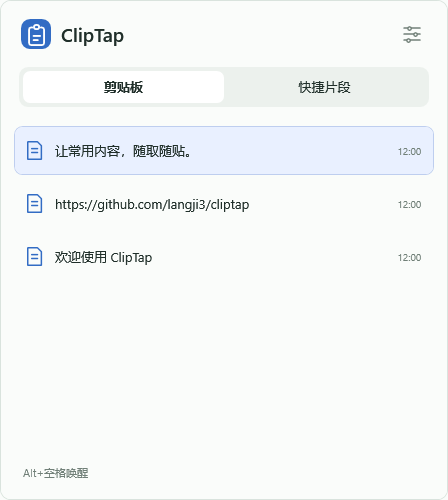
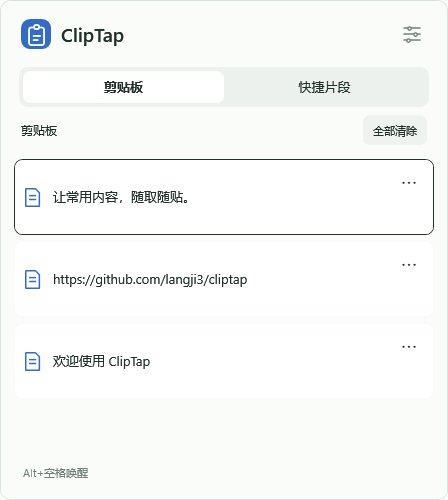
feat: 增加轻柔唤起动效和系统历史卡片操作

diff --git a/src/ClipTap/MainWindow.xaml b/src/ClipTap/MainWindow.xaml
@@ -4,7 +4,8 @@
         WindowStyle="None" ResizeMode="NoResize" ShowInTaskbar="False" Topmost="True"
         PreviewKeyDown="OnKeyDown" Deactivated="OnDeactivated" Closing="OnClosing"
         UseLayoutRounding="True" SnapsToDevicePixels="True">
-  <Border BorderBrush="{DynamicResource Line}" BorderThickness="1" CornerRadius="10" Background="{DynamicResource Page}">
+  <Border x:Name="PanelSurface" BorderBrush="{DynamicResource Line}" BorderThickness="1" CornerRadius="10" Background="{DynamicResource Page}">
+    <Border.RenderTransform><TranslateTransform x:Name="EntranceOffset" /></Border.RenderTransform>
     <Grid>
       <Grid.RowDefinitions><RowDefinition Height="66" /><RowDefinition Height="*" /><RowDefinition Height="Auto" /></Grid.RowDefinitions>
       <Grid x:Name="HeaderDragArea" Background="Transparent" Cursor="SizeAll" MouseLeftButtonDown="OnHeaderDrag">
@@ -31,31 +32,37 @@
         </Button>
       </Grid>
       <Grid x:Name="ListPage" Grid.Row="1">
-        <Grid.RowDefinitions><RowDefinition Height="46" /><RowDefinition Height="*" /><RowDefinition Height="46" /></Grid.RowDefinitions>
+        <Grid.RowDefinitions><RowDefinition Height="46" /><RowDefinition Height="Auto" /><RowDefinition Height="*" /><RowDefinition Height="46" /></Grid.RowDefinitions>
         <Border Margin="18,0,18,6" Background="{DynamicResource Chrome}" CornerRadius="9" Padding="4">
           <UniformGrid Columns="2">
             <Button x:Name="HistoryTab" Content="剪贴板" Click="OnHistoryTab" Padding="8,5" />
             <Button x:Name="SnippetsTab" Content="快捷片段" Click="OnSnippetsTab" Padding="8,5" />
           </UniformGrid>
         </Border>
-        <Grid Grid.Row="1" Margin="12,10,12,0">
+        <Grid x:Name="HistoryToolbar" Grid.Row="1" Margin="20,2,20,6" Height="30">
+          <TextBlock Text="剪贴板" VerticalAlignment="Center" FontSize="12" />
+          <Button x:Name="ClearHistoryButton" Content="全部清除" HorizontalAlignment="Right" Padding="10,4" FontSize="11" Click="OnClearHistory" />
+        </Grid>
+        <Grid Grid.Row="2" Margin="12,4,12,0">
           <ListBox x:Name="Entries" BorderThickness="0" Background="Transparent" Foreground="{DynamicResource Ink}"
                    ScrollViewer.HorizontalScrollBarVisibility="Disabled" ScrollViewer.VerticalScrollBarVisibility="Auto"
                    SelectionMode="Single" PreviewMouseLeftButtonUp="OnEntryClick" AutomationProperties.Name="条目列表">
             <ListBox.ItemContainerStyle><Style TargetType="ListBoxItem">
               <Setter Property="AutomationProperties.Name" Value="{Binding Title}" />
               <Setter Property="Foreground" Value="{DynamicResource Ink}" /><Setter Property="HorizontalContentAlignment" Value="Stretch" />
-              <Setter Property="Padding" Value="12,14" /><Setter Property="Margin" Value="0,2" />
+              <Setter Property="Padding" Value="10,8" /><Setter Property="Margin" Value="0,3" />
+              <Setter Property="MinHeight" Value="76" />
               <Setter Property="Template"><Setter.Value><ControlTemplate TargetType="ListBoxItem">
-                <Border x:Name="Row" Background="Transparent" BorderBrush="Transparent" BorderThickness="1" CornerRadius="8" Padding="{TemplateBinding Padding}"><ContentPresenter /></Border>
+                <Border x:Name="Row" Background="{DynamicResource Field}" BorderBrush="Transparent" BorderThickness="1" CornerRadius="8" Padding="{TemplateBinding Padding}"><ContentPresenter /></Border>
                 <ControlTemplate.Triggers>
                   <Trigger Property="IsMouseOver" Value="True"><Setter TargetName="Row" Property="Background" Value="{DynamicResource Hover}" /></Trigger>
-                  <Trigger Property="IsSelected" Value="True"><Setter TargetName="Row" Property="Background" Value="{DynamicResource Selected}" /><Setter TargetName="Row" Property="BorderBrush" Value="{DynamicResource SelectedBorder}" /></Trigger>
+                  <Trigger Property="IsSelected" Value="True"><Setter TargetName="Row" Property="BorderBrush" Value="{DynamicResource Ink}" /></Trigger>
                 </ControlTemplate.Triggers>
               </ControlTemplate></Setter.Value></Setter>
             </Style></ListBox.ItemContainerStyle>
             <ListBox.ItemTemplate><DataTemplate>
-              <Grid>
+              <Grid ToolTip="{Binding Detail}">
+                <Grid.RowDefinitions><RowDefinition Height="*" /><RowDefinition Height="Auto" /></Grid.RowDefinitions>
                 <Grid.ColumnDefinitions><ColumnDefinition Width="28" /><ColumnDefinition Width="*" /><ColumnDefinition Width="Auto" /></Grid.ColumnDefinitions>
                 <Path Width="17" Height="19" Stretch="Uniform" Stroke="{DynamicResource Accent}" StrokeThickness="1.5" StrokeStartLineCap="Round" StrokeEndLineCap="Round" StrokeLineJoin="Round" VerticalAlignment="Center" HorizontalAlignment="Left">
                   <Path.Style><Style TargetType="Path">
@@ -69,15 +76,19 @@
                   </Image>
                   <TextBlock Text="{Binding Title}" TextTrimming="CharacterEllipsis" FontSize="13" />
                 </StackPanel>
-                <StackPanel Grid.Column="2" Orientation="Horizontal" VerticalAlignment="Center">
-                  <TextBlock Text="{Binding Detail}" Foreground="{DynamicResource Muted}" FontSize="10" VerticalAlignment="Center" />
+                <StackPanel Grid.Column="2" VerticalAlignment="Top">
+                  <Button Content="⋯" Style="{StaticResource IconButton}" Width="28" Height="26" FontSize="18" ToolTip="更多" AutomationProperties.Name="更多操作" Click="OnMore" />
                   <Ellipse Width="5" Height="5" Fill="{DynamicResource Accent}" Margin="5,0,0,0"><Ellipse.Style><Style TargetType="Ellipse"><Setter Property="Visibility" Value="Collapsed" /><Style.Triggers><DataTrigger Binding="{Binding Pinned}" Value="True"><Setter Property="Visibility" Value="Visible" /></DataTrigger></Style.Triggers></Style></Ellipse.Style></Ellipse>
+                </StackPanel>
+                <StackPanel Grid.Row="1" Grid.ColumnSpan="3" HorizontalAlignment="Right" Margin="0,8,0,0">
+                  <StackPanel.Style><Style TargetType="StackPanel"><Setter Property="Visibility" Value="Collapsed" /><Style.Triggers><DataTrigger Binding="{Binding ActionsOpen}" Value="True"><Setter Property="Visibility" Value="Visible" /></DataTrigger></Style.Triggers></Style></StackPanel.Style>
+                  <Button Content="删除" Padding="12,5" Foreground="{DynamicResource Danger}" Click="OnDeleteHistory" />
                 </StackPanel>
               </Grid>
             </DataTemplate></ListBox.ItemTemplate>
           </ListBox>
         </Grid>
-        <Grid Grid.Row="2" Margin="22,0,22,8">
+        <Grid Grid.Row="3" Margin="22,0,22,8">
           <TextBlock x:Name="StatusLabel" Text="Alt+空格唤醒" FontSize="11" Foreground="{DynamicResource Muted}" VerticalAlignment="Center" />
           <Button x:Name="SystemSettingsButton" Content="打开设置" Visibility="Collapsed" HorizontalAlignment="Right" Padding="10,6" Background="Transparent" Foreground="{DynamicResource Accent}" Click="OnSystemSettings" />
           <StackPanel x:Name="SnippetActions" Orientation="Horizontal" HorizontalAlignment="Right">

diff --git a/src/ClipTap/MainWindow.xaml.cs b/src/ClipTap/MainWindow.xaml.cs
@@ -4,13 +4,14 @@ using System.Windows.Controls;
 using System.Windows.Input;
 using System.Windows.Interop;
 using System.Windows.Media;
+using System.Windows.Media.Animation;
 using ClipTap.Core;
 using ClipTap.Services;
 using ClipTap.Views;
 
 namespace ClipTap;
 
-internal sealed record EntryRow(Guid Id, string Title, string Detail, bool Sensitive, bool Pinned, bool IsImage = false, ImageSource? Thumbnail = null)
+internal sealed record EntryRow(Guid Id, string Title, string Detail, bool Sensitive, bool Pinned, bool IsImage = false, ImageSource? Thumbnail = null, bool ActionsOpen = false)
 {
     public override string ToString() => Title;
 }
@@ -21,6 +22,7 @@ public partial class MainWindow : Window
     private nint _handle;
     private int _tab;
     private bool _busy;
+    private Guid? _menuId;
     private PasteTarget? _target;
     private SnippetView? _editor;
     private SettingsView? _settings;
@@ -37,7 +39,9 @@ public partial class MainWindow : Window
     internal void OpenPanel(bool captureTarget)
     {
         if (_busy) return;
+        var entering = !IsVisible;
         Confirmation.Dismiss();
+        _menuId = null;
         _editor?.DismissConfirmation();
         _settings?.DismissConfirmation();
         _target = captureTarget ? PasteService.CaptureTarget() : null;
@@ -50,6 +54,18 @@ public partial class MainWindow : Window
         if (IsList) { _tab = 0; RefreshRows(); }
         PlaceNearTarget();
         Show(); Activate();
+        if (entering && _app.AnimatePanel)
+        {
+            var duration = TimeSpan.FromMilliseconds(160);
+            var easing = new CubicEase { EasingMode = EasingMode.EaseOut };
+            PanelSurface.BeginAnimation(OpacityProperty, new DoubleAnimation(0, 1, duration) { EasingFunction = easing });
+            EntranceOffset.BeginAnimation(TranslateTransform.YProperty, new DoubleAnimation(8, 0, duration) { EasingFunction = easing });
+        }
+        else
+        {
+            PanelSurface.BeginAnimation(OpacityProperty, null); PanelSurface.Opacity = 1;
+            EntranceOffset.BeginAnimation(TranslateTransform.YProperty, null); EntranceOffset.Y = 0;
+        }
         _ = LoadHistoryAsync();
         if (IsList) Entries.Focus(); else PageHost.MoveFocus(new TraversalRequest(FocusNavigationDirection.First));
     }
@@ -76,6 +92,7 @@ public partial class MainWindow : Window
             ? _app.History.Select(c => new EntryRow(c.Id, c.IsImage ? "图片" : Library.Preview(c.Text), c.CopiedAt.ToLocalTime().ToString("HH:mm"), false, false, c.IsImage, c.Thumbnail)).ToList()
             : _app.Library.OrderedSnippets().Select(s => new EntryRow(s.Id, s.Title, "", s.IsSensitive, s.IsPinned)).ToList();
         Entries.ItemsSource = rows;
+        if (_menuId.HasValue) { rows = rows.Select(r => r with { ActionsOpen = r.Id == _menuId }).ToList(); Entries.ItemsSource = rows; }
         Entries.SelectedItem = rows.FirstOrDefault(r => r.Id == selected) ?? rows.FirstOrDefault();
         if (Entries.SelectedItem is not null) Entries.ScrollIntoView(Entries.SelectedItem);
         if (_tab == 0) HistoryTab.SetResourceReference(BackgroundProperty, "TabSurface"); else HistoryTab.Background = Brushes.Transparent;
@@ -84,6 +101,8 @@ public partial class MainWindow : Window
         SnippetsTab.FontWeight = _tab == 1 ? FontWeights.SemiBold : FontWeights.Normal;
         SnippetActions.Visibility = _tab == 1 ? Visibility.Visible : Visibility.Collapsed;
         EditButton.IsEnabled = rows.Count > 0;
+        HistoryToolbar.Visibility = _tab == 0 ? Visibility.Visible : Visibility.Collapsed;
+        ClearHistoryButton.IsEnabled = !_busy && _app.HistoryStatus == HistoryStatus.Ready && rows.Count > 0;
         StatusLabel.Text = _tab == 0 ? _app.HistoryStatus switch
         {
             HistoryStatus.Loading => "正在读取…",
@@ -98,12 +117,14 @@ public partial class MainWindow : Window
 
     private void OnSystemSettings(object sender, RoutedEventArgs e) => _app.OpenSystemClipboardSettings();
 
-    private void SwitchTab(int tab) { Confirmation.Dismiss(); _tab = tab; RefreshRows(); Entries.Focus(); }
+    private void SwitchTab(int tab) { if (_busy) return; Confirmation.Dismiss(); _menuId = null; _tab = tab; RefreshRows(); Entries.Focus(); }
     private void OnHistoryTab(object sender, RoutedEventArgs e) => SwitchTab(0);
     private void OnSnippetsTab(object sender, RoutedEventArgs e) => SwitchTab(1);
     private async void OnKeyDown(object sender, KeyEventArgs e)
     {
         if (_busy) return;
+        if (e.Key == Key.Escape && _menuId.HasValue && !Confirmation.IsOpen)
+        { _menuId = null; RefreshRows(true); Entries.Focus(); e.Handled = true; return; }
         if (Confirmation.IsOpen)
         {
             if (e.Key == Key.Escape) { Confirmation.Dismiss(); Entries.Focus(); e.Handled = true; }
@@ -145,9 +166,53 @@ public partial class MainWindow : Window
     }
     private async void OnEntryClick(object sender, MouseButtonEventArgs e)
     {
+        if (e.OriginalSource is DependencyObject source && FindButton(source)) return;
         if (ItemsControl.ContainerFromElement(Entries, e.OriginalSource as DependencyObject) is not ListBoxItem item) return;
         Entries.SelectedItem = item.DataContext; e.Handled = true;
         await PasteSelectedAsync();
+    }
+
+    private void OnMore(object sender, RoutedEventArgs e)
+    {
+        if (_busy || sender is not Button { DataContext: EntryRow row }) return;
+        Entries.SelectedItem = row;
+        if (_tab == 1) { EditSnippet(); return; }
+        Confirmation.Dismiss();
+        _menuId = _menuId == row.Id ? null : row.Id;
+        RefreshRows(true);
+    }
+    private void OnDeleteHistory(object sender, RoutedEventArgs e)
+    {
+        if (_busy || sender is not Button { DataContext: EntryRow row }) return;
+        Confirmation.Ask("从 Windows 历史删除此项？", "删除", async () =>
+        {
+            if (_busy) return;
+            _busy = true;
+            try
+            {
+                var deleted = await _app.DeleteSystemHistoryAsync(row.Id);
+                _menuId = null; RefreshRows(true);
+                if (!deleted) StatusLabel.Text = "删除失败，请重试";
+            }
+            finally { _busy = false; ClearHistoryButton.IsEnabled = _app.HistoryStatus == HistoryStatus.Ready && _app.History.Count > 0; }
+        });
+    }
+    private void OnClearHistory(object sender, RoutedEventArgs e)
+    {
+        if (_busy) return;
+        _menuId = null; RefreshRows(true);
+        Confirmation.Ask("清空 Windows 剪贴板历史？\nWin+V 中的固定项会保留。", "清空", async () =>
+        {
+            if (_busy) return;
+            _busy = true;
+            try
+            {
+                var cleared = await _app.ClearSystemHistoryAsync();
+                RefreshRows();
+                if (!cleared) StatusLabel.Text = "清空失败，请重试";
+            }
+            finally { _busy = false; ClearHistoryButton.IsEnabled = _app.HistoryStatus == HistoryStatus.Ready && _app.History.Count > 0; }
+        });
     }
 
     private Task PasteSelectedAsync()

diff --git a/tests/ClipTap.Tests/Program.cs b/tests/ClipTap.Tests/Program.cs
@@ -357,7 +357,11 @@ internal static class Program
             Render(panel, Path.Combine(artifactDirectory, "images-light.png"));
             ThemeService.ApplyTheme(AppearanceMode.Dark, AccentPalette.Purple);
             Render(panel, Path.Combine(artifactDirectory, "images-dark.png"));
-            historySource.RestoreResult = false; list.Focus(); SendKey(panel, Key.Enter);
+            historySource.RestoreResult = false;
+            var imageCard = (ListBoxItem)list.ItemContainerGenerator.ContainerFromIndex(0);
+            imageCard.RaiseEvent(new MouseButtonEventArgs(Mouse.PrimaryDevice, 0, MouseButton.Left) { RoutedEvent = Mouse.PreviewMouseUpEvent });
+            Equal<Guid?>(imageId, historySource.RestoredImage); Check(panel.IsVisible);
+            list.Focus(); SendKey(panel, Key.Enter);
             Equal<Guid?>(imageId, historySource.RestoredImage); Check(panel.IsVisible);
             Equal("图片已失效或剪贴板忙", ((TextBlock)panel.FindName("StatusLabel")).Text);
             historySource.RestoreResult = true; SendKey(panel, Key.Enter); Check(!panel.IsVisible);
@@ -366,6 +370,42 @@ internal static class Program
             historySource.Snapshot = new(HistoryStatus.Ready, []);
             var restore = snapshot.RestoreImageAsync(imageId); Await(restore); Check(!restore.Result);
             Check(app.Library.State.History.All(i => i.Id != imageId));
+        });
+        Test("Cards: more never pastes, Escape closes actions, delete/clear require confirmation", () =>
+        {
+            var id = Guid.NewGuid();
+            historySource.Snapshot = new(HistoryStatus.Ready, [new(id, "卡片操作验证", Now)]);
+            panel.OpenPanel(false); panel.UpdateLayout();
+            var list = (ListBox)panel.FindName("Entries");
+            Button RowButton(string label)
+            {
+                panel.UpdateLayout();
+                return Descendants<Button>((DependencyObject)list.ItemContainerGenerator.ContainerFromIndex(0)).Single(b => Equals(b.Content, label));
+            }
+            var more = RowButton("⋯");
+            more.RaiseEvent(new MouseButtonEventArgs(Mouse.PrimaryDevice, 0, MouseButton.Left) { RoutedEvent = Mouse.PreviewMouseUpEvent });
+            Check(panel.IsVisible);
+            more.RaiseEvent(new RoutedEventArgs(Button.ClickEvent)); Check(((EntryRow)list.Items[0]).ActionsOpen);
+            SendKey(panel, Key.Escape); Check(panel.IsVisible); Check(!((EntryRow)list.Items[0]).ActionsOpen);
+            RowButton("⋯").RaiseEvent(new RoutedEventArgs(Button.ClickEvent));
+            RowButton("删除").RaiseEvent(new RoutedEventArgs(Button.ClickEvent));
+            var confirmation = (InlineConfirmation)panel.FindName("Confirmation");
+            Check(confirmation.IsOpen); Check(historySource.DeletedId is null);
+            Click(confirmation, "CancelButton"); Equal(1, app.History.Count);
+            RowButton("删除").RaiseEvent(new RoutedEventArgs(Button.ClickEvent));
+            historySource.DeleteResult = false; Click(confirmation, "ConfirmButton");
+            Equal(1, app.History.Count); Equal("删除失败，请重试", ((TextBlock)panel.FindName("StatusLabel")).Text);
+            historySource.DeleteResult = true;
+            RowButton("⋯").RaiseEvent(new RoutedEventArgs(Button.ClickEvent));
+            RowButton("删除").RaiseEvent(new RoutedEventArgs(Button.ClickEvent)); Click(confirmation, "ConfirmButton");
+            Equal<Guid?>(id, historySource.DeletedId); Equal(0, app.History.Count);
+            Check(!((Button)panel.FindName("ClearHistoryButton")).IsEnabled);
+            historySource.Snapshot = new(HistoryStatus.Ready, [new(Guid.NewGuid(), "clear test", Now)]);
+            Await(app.RefreshSystemHistoryAsync()); panel.RefreshRows();
+            Click(panel, "ClearHistoryButton"); Check(confirmation.IsOpen); Click(confirmation, "CancelButton"); Equal(1, app.History.Count);
+            Click(panel, "ClearHistoryButton"); Click(confirmation, "ConfirmButton"); Equal(0, app.History.Count);
+            SendKey(panel, Key.Right); Equal(Visibility.Collapsed, ((Grid)panel.FindName("HistoryToolbar")).Visibility);
+            panel.Hide();
         });
         if (args.Contains("--system-history"))
             Test("Windows native history: read-only API probe (contents not logged)", () =>
@@ -383,6 +423,15 @@ internal static class Program
     }
 
     private static void Click(FrameworkElement parent, string name) => ((Button)parent.FindName(name)).RaiseEvent(new RoutedEventArgs(Button.ClickEvent));
+    private static IEnumerable<T> Descendants<T>(DependencyObject parent) where T : DependencyObject
+    {
+        for (var i = 0; i < VisualTreeHelper.GetChildrenCount(parent); i++)
+        {
+            var child = VisualTreeHelper.GetChild(parent, i);
+            if (child is T match) yield return match;
+            foreach (var nested in Descendants<T>(child)) yield return nested;
+        }
+    }
     private static void Await(Task task)
     {
         if (!task.IsCompleted)
@@ -452,6 +501,14 @@ internal sealed class FakeHistorySource : ISystemHistorySource
     internal bool ClearResult { get; set; } = true;
     internal Guid? RestoredImage { get; private set; }
     internal bool RestoreResult { get; set; } = true;
+    internal Guid? DeletedId { get; private set; }
+    internal bool DeleteResult { get; set; } = true;
+    public Task<bool> DeleteAsync(Guid id)
+    {
+        DeletedId = id;
+        if (DeleteResult) Snapshot = Snapshot with { Items = Snapshot.Items.Where(i => i.Id != id).ToArray() };
+        return Task.FromResult(DeleteResult);
+    }
     public Task<bool> RestoreImageAsync(Guid id) { RestoredImage = id; return Task.FromResult(RestoreResult && Snapshot.Items.Any(i => i.Id == id && i.IsImage)); }
     public Task<HistorySnapshot> ReadAsync() => Read?.Invoke() ?? Task.FromResult(Snapshot);
     public bool Clear()

diff --git a/src/ClipTap/Services/SystemHistoryService.cs b/src/ClipTap/Services/SystemHistoryService.cs
@@ -23,6 +23,7 @@ internal interface ISystemHistorySource : IDisposable
     Task<HistorySnapshot> ReadAsync();
     bool Clear();
     Task<bool> RestoreImageAsync(Guid id);
+    Task<bool> DeleteAsync(Guid id);
 }
 
 internal sealed class WindowsHistorySource : ISystemHistorySource
@@ -105,6 +106,13 @@ internal sealed class WindowsHistorySource : ISystemHistorySource
             && SystemClipboard.SetHistoryItemAsContent(item) == SetHistoryItemAsContentStatus.Success;
     }
     public bool Clear() => SystemClipboard.ClearHistory();
+    public async Task<bool> DeleteAsync(Guid id)
+    {
+        var result = await SystemClipboard.GetHistoryItemsAsync().AsTask().WaitAsync(TimeSpan.FromSeconds(5));
+        if (result.Status != ClipboardHistoryItemsResultStatus.Success) return false;
+        var item = result.Items.FirstOrDefault(i => Identity(i.Id) == id);
+        return item is null || SystemClipboard.DeleteItemFromHistory(item);
+    }
     public void Dispose()
     {
         if (_historySubscribed) SystemClipboard.HistoryChanged -= OnChanged;
@@ -153,6 +161,17 @@ internal sealed class SystemHistoryService(ISystemHistorySource source) : IDispo
         try { return await source.RestoreImageAsync(id); }
         catch (Exception ex) when (ex is COMException or UnauthorizedAccessException or InvalidOperationException or TimeoutException or OperationCanceledException)
         { return false; }
+    }
+    internal async Task<bool> DeleteAsync(Guid id)
+    {
+        if (_disposed) return false;
+        bool deleted;
+        try { deleted = await source.DeleteAsync(id); }
+        catch (Exception ex) when (ex is COMException or UnauthorizedAccessException or InvalidOperationException or TimeoutException or OperationCanceledException)
+        { deleted = false; }
+        Invalidate();
+        await RefreshAsync();
+        return deleted;
     }
     public void Dispose() { _disposed = true; ++_revision; source.Dispose(); }
 }

diff --git a/src/ClipTap/App.xaml.cs b/src/ClipTap/App.xaml.cs
@@ -28,6 +28,7 @@ public partial class App : System.Windows.Application
     internal ClipboardService ClipboardService => _clipboard!;
     internal bool IsQuitting { get; private set; }
     internal bool HotkeyAvailable => _events?.HotkeyAvailable ?? true;
+    internal bool AnimatePanel => !_testHost && SystemParameters.ClientAreaAnimation;
     internal HistoryStatus HistoryStatus => _history?.Snapshot.Status ?? HistoryStatus.Unavailable;
     internal IReadOnlyList<HistoryEntry> History => (_history?.Snapshot.Items ?? [])
         .Where(c => c.IsImage || !Library.State.Snippets.Any(s => s.IsSensitive && s.Value == c.Text)).ToArray();
@@ -136,6 +137,7 @@ public partial class App : System.Windows.Application
         return _history.RefreshAsync();
     }
     internal Task<bool> ClearSystemHistoryAsync() => _history?.ClearAsync() ?? Task.FromResult(false);
+    internal Task<bool> DeleteSystemHistoryAsync(Guid id) => _history?.DeleteAsync(id) ?? Task.FromResult(false);
     internal Task<bool> RestoreHistoryImageAsync(Guid id) => _history?.RestoreImageAsync(id) ?? Task.FromResult(false);
     internal bool OpenSystemClipboardSettings()
     {

diff --git a/docs/verification-20260916.md b/docs/verification-20260916.md
@@ -14,7 +14,9 @@
 
 环境：Windows x64，.NET SDK 10.0.401，运行时 10.0.12。以下结果对应与本记录一起交付的源码。
 
-`powershell -ExecutionPolicy Bypass -File scripts/build.ps1`：Release 构建通过，0 警告、0 错误，22 项默认测试通过。移除旧采集/去重/条数策略的测试，替换为系统快照及兼容性检查，新增图片验证。
+`powershell -ExecutionPolicy Bypass -File scripts/build.ps1`：Release 构建通过，0 警告、0 错误，23 项默认测试通过。新增卡片操作事件验证，包含鼠标点击图片恢复、按钮不触发粘贴、Esc 收起操作、删除/清空取消与失败。Tab 切换未改；入场动效代码为 160ms CubicEase 缓出，尊重系统动画开关，测试宿主关闭动画以保证静态截图稳定，实际动效手感需用户确认。
+
+卡片增量独立只读审查已完成；审查提出图片空文本可能阻止粘贴，经源码复核排除（图片值为空字符串，判断仅拦截 null），并补充鼠标事件回归通过。没有改变图片恢复原始记录的路径。
 
 图片验证使用合成 PNG，实际调用 Windows 图片解码器，检查宽图、细长图、单像素图、透明度及 160×96 上限；WPF 图文混排和无缩略图占位均生成截图检查。以假系统源验证恢复所选图片 ID、恢复失败停留列表以及系统删除后拒绝恢复，不写入真实剪贴板。异步 UI 测试显式阻止生产启动逻辑，避免消息循环触发托盘或读取用户库。真实图片恢复到剪贴板及跨应用图片粘贴尚待交互桌面验证。
 

diff --git a/docs/specs/20260916-cliptap-mvp.md b/docs/specs/20260916-cliptap-mvp.md
@@ -35,6 +35,7 @@
 取消 ClipTap 的历史条数和暂停记录选项，改由 Windows 管理。设置中的清空须明确确认「清空 Windows 历史」，调用系统接口，不以清空本地缓存冒充系统清空。异步刷新失败不崩溃，旧请求不得覆盖较新结果。验证使用隔离假数据，不在日志、截图或 Git 中暴露真实系统剪贴板文本，也不在测试中清空用户历史。
 
 ## 技术与影响区域
+追加唤起动效：Alt+空格打开隐藏面板时，内容以约 160ms 淡入并上移 8px，缓出、不延迟输入；已有可见面板不重复入场。遵循 Windows 客户区动画设置，关闭系统动画时立即显示。Tab 切换不变。
 追加 Win+V 交互：用户要求参考系统卡片操作，明确现有 Tab 切换不改。保留顶部、Tab 与键盘切换；列表卡片增加「…」页内操作和单条系统删除，历史列表顶部提供「全部清除」并使用页内确认。卡片按钮点击不得触发粘贴，Esc 优先收起操作。固定记录不使用私有接口或自建历史模拟，仍由 Win+V 操作。
 
 追加图片支持：显示 Win+V 的 Bitmap 项及有界缩略图，沿用上下选择、回车/单击粘贴。缩略图仅内存展示，失败时显示图片占位，不丢弃条目；粘贴通过 Windows 恢复原始历史项，不能把缩略图作为实际粘贴内容。原记录已删除/不可恢复时停留列表提示，不发送粘贴。图片不写入本地片段库、不另建历史。以合成图片验证缩略图尺寸和图文混排；真实跨应用粘贴未验证时明确说明。

diff --git a/README.md b/README.md
@@ -19,6 +19,7 @@
 3. 在输入框中按 `Alt+空格` 唤起，选中内容并按回车或单击。
 4. `→` 打开快捷片段，点击右下角「＋」保存标题与内容；`F2` 或编辑图标编辑选中片段。
 5. 按住顶部图标、标题或空白区域可以拖动浮窗。列表中 `Esc` 收起；编辑/设置中 `Esc` 或左上角返回列表。点击外部暂时收起，重新唤起会保留编辑草稿。右键托盘可打开 Windows 剪贴板设置、ClipTap 设置或退出。
+6. 历史卡片右侧「…」展开删除操作，顶部「全部清除」清理系统历史，均在面板内确认。固定记录仍在 Win+V 操作；现有 Tab 切换保持不变。唤起带约 160ms 淡入和轻微上移，遵循 Windows 动画开关。
 
 | 操作 | 按键 |
 | --- | --- |
